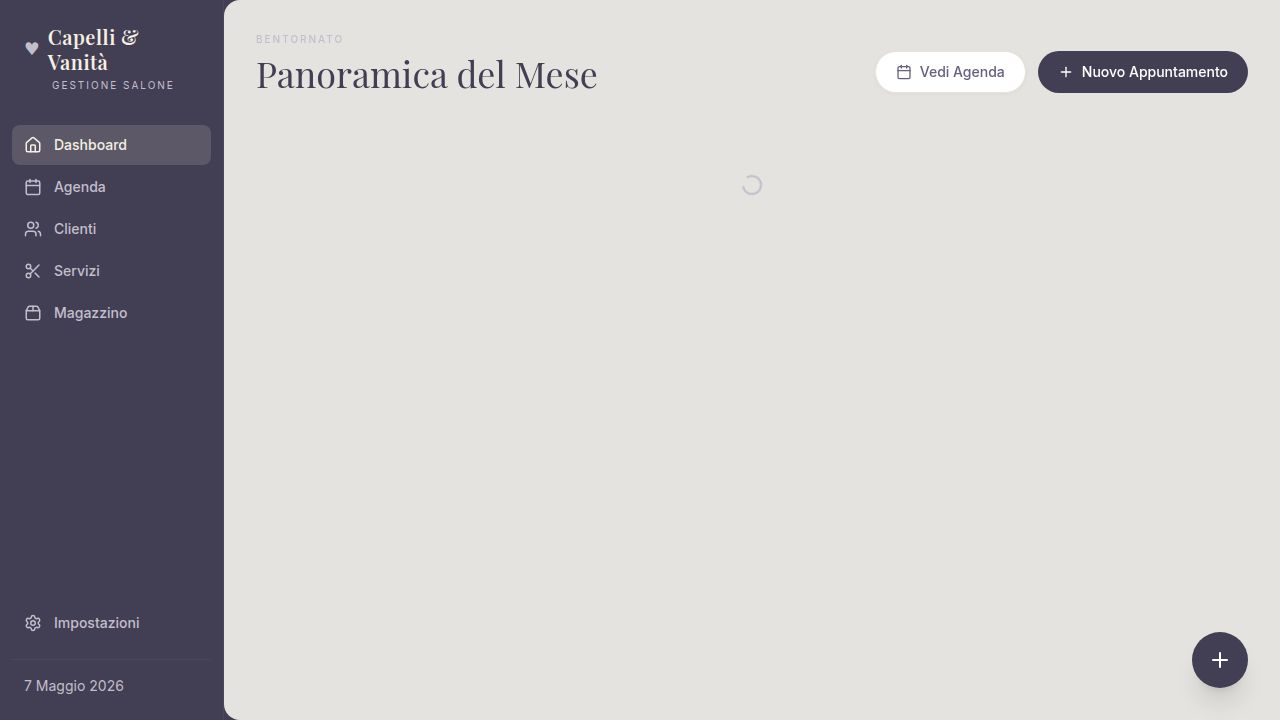
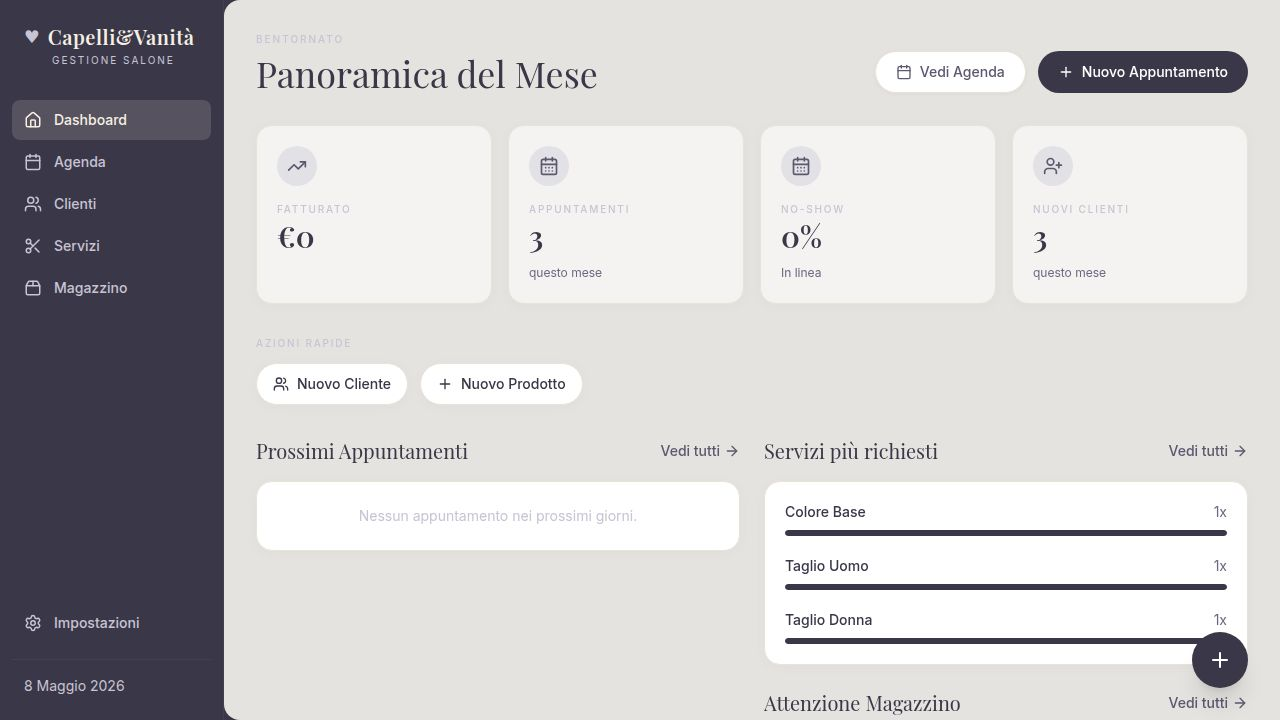
Task #42: Bug fix magazzino — calcolo automatico stockGrams e scarico confezioni
Three inventory bugs from task #38 (advanced inventory) are fixed:

1. EditProductModal — auto-calculate stockGrams:
   - Added `stockGramsManual` flag to distinguish between auto-computed and manually overridden values
   - When `quantity` or `unitSize` changes and the user hasn't manually overridden stockGrams, the field auto-updates to `quantity × unitSize`
   - When the user types in the stockGrams field directly, the flag is set and auto-calc stops
   - Helpful hint text shows "Auto-calcolato: N × M unità" or "Valore personalizzato" accordingly
   - trackByWeight toggle also resets manual flag and recalculates

2. NewProductModal — editable stockGrams field:
   - Converted the read-only "Stock totale calcolato" label into a full editable input field
   - Same auto-calc + manual override pattern as EditProductModal
   - stockGrams added to FormData interface and emptyForm constant
   - Payload now uses formData.stockGrams instead of the derived computedStockGrams

3. Backend — deduct quantity (pack count) alongside stockGrams:
   - In PUT /appointments/:id stock deduction loop, after computing newStock,
     also computes `quantity = max(0, floor(newStock / unitSize))` when unitSize is set
   - Both stockGrams and quantity are updated in a single dbUpdateProduct call

4. False low-stock alerts (bug 2):
   - These were a consequence of incorrect stockGrams from the broken edit modal
[…]

diff --git a/artifacts/hirhub/src/components/NewProductModal.tsx b/artifacts/hirhub/src/components/NewProductModal.tsx
@@ -22,11 +22,12 @@ interface FormData {
   trackByWeight: boolean;
   unitSize: number;
   unitType: UnitType;
+  stockGrams: number;
 }
 
 const emptyForm: FormData = {
   name: '', category: '', brand: '', quantity: 0, minThreshold: 5,
-  trackByWeight: false, unitSize: 100, unitType: 'ml',
+  trackByWeight: false, unitSize: 100, unitType: 'ml', stockGrams: 0,
 };
 
 export const NewProductModal = ({ isOpen, onClose }: { isOpen: boolean, onClose: () => void }) => {
@@ -38,6 +39,7 @@ export const NewProductModal = ({ isOpen, onClose }: { isOpen: boolean, onClose:
         toast.show('Prodotto aggiunto');
         onClose();
         setFormData(emptyForm);
+        setStockGramsManual(false);
       },
       onError: (err: unknown) => {
         const msg = (err as { response?: { data?: { message?: string } } })?.response?.data?.message;
@@ -47,10 +49,29 @@ export const NewProductModal = ({ isOpen, onClose }: { isOpen: boolean, onClose:
   });
 
   const [formData, setFormData] = useState<FormData>(emptyForm);
+  const [stockGramsManual, setStockGramsManual] = useState(false);
 
-  const computedStockGrams = formData.trackByWeight
-    ? formData.quantity * formData.unitSize
-    : null;
+  const handleQuantityChange = (val: number) => {
+    setFormData(p => {
+      const newStock = !stockGramsManual && p.trackByWeight ? val * p.unitSize : p.stockGrams;
+      return { ...p, quantity: val, stockGrams: newStock };
+    });
+  };
+
+  const handleUnitSizeChange = (val: number) => {
+    setFormData(p => {
+      const newStock = !stockGramsManual ? p.quantity * val : p.stockGrams;
+      return { ...p, unitSize: val, stockGrams: newStock };
+    });
+  };
+
+  const handleTrackByWeightChange = (checked: boolean) => {
+    setFormData(p => {
+      const newStock = checked ? p.quantity * p.unitSize : 0;
+      return { ...p, trackByWeight: checked, stockGrams: newStock };
+    });
+    setStockGramsManual(false);
+  };
 
   const handleSubmit = (e: React.FormEvent) => {
     e.preventDefault();
@@ -66,7 +87,7 @@ export const NewProductModal = ({ isOpen, onClose }: { isOpen: boolean, onClose:
     if (formData.trackByWeight) {
       payload.unitSize = formData.unitSize;
       payload.unitType = formData.unitType;
-      payload.stockGrams = computedStockGrams;
+      payload.stockGrams = formData.stockGrams;
     }
     createProduct({ data: payload });
   };
@@ -100,7 +121,7 @@ export const NewProductModal = ({ isOpen, onClose }: { isOpen: boolean, onClose:
           <div className="flex flex-col gap-1">
             <label className={LABEL}>Confezioni (pz)</label>
             <input required type="number" min="0" value={formData.quantity}
-              onChange={e => setFormData(p => ({ ...p, quantity: parseInt(e.target.value) || 0 }))}
+              onChange={e => handleQuantityChange(parseInt(e.target.value) || 0)}
               className={INPUT} />
           </div>
           <div className="flex flex-col gap-1">
@@ -116,7 +137,7 @@ export const NewProductModal = ({ isOpen, onClose }: { isOpen: boolean, onClose:
             type="checkbox"
             id="trackByWeight"
             checked={formData.trackByWeight}
-            onChange={e => setFormData(p => ({ ...p, trackByWeight: e.target.checked }))}
+            onChange={e => handleTrackByWeightChange(e.target.checked)}
             className="w-4 h-4 rounded border-stone-300 accent-stone-800"
           />
           <label htmlFor="trackByWeight" className="text-sm text-stone-700 cursor-pointer">
@@ -130,7 +151,7 @@ export const NewProductModal = ({ isOpen, onClose }: { isOpen: boolean, onClose:
               <div className="flex flex-col gap-1">
                 <label className={LABEL}>Dimensione confezione</label>
                 <input type="number" min="0" step="0.1" value={formData.unitSize}
-                  onChange={e => setFormData(p => ({ ...p, unitSize: parseFloat(e.target.value) || 0 }))}
+                  onChange={e => handleUnitSizeChange(parseFloat(e.target.value) || 0)}
                   className={INPUT} />
               </div>
               <div className="flex flex-col gap-1">
@@ -143,11 +164,21 @@ export const NewProductModal = ({ isOpen, onClose }: { isOpen: boolean, onClose:
                 </select>
               </div>
             </div>
-            {computedStockGrams !== null && (
-              <p className="text-xs text-stone-500">
-                Stock totale calcolato: <span className="font-semibold text-stone-700">{computedStockGrams} {formData.unitType}</span>
+            <div className="flex flex-col gap-1">
+              <label className={LABEL}>Stock attuale ({formData.unitType})</label>
+              <input type="number" min="0" step="0.1" value={formData.stockGrams}
+                onChange={e => {
+                  const val = parseFloat(e.target.value) || 0;
+                  setStockGramsManual(true);
+                  setFormData(p => ({ ...p, stockGrams: val }));
+                }}
+                className={INPUT} />
+              <p className="text-xs text-stone-400">
+                {stockGramsManual
+                  ? 'Valore personalizzato — modificare le confezioni per ricalcolare'
+                  : `Auto-calcolato: ${formData.quantity} × ${formData.unitSize} ${formData.unitType}`}
               </p>
-            )}
+            </div>
           </div>
         )}
 

diff --git a/artifacts/hirhub/src/components/EditProductModal.tsx b/artifacts/hirhub/src/components/EditProductModal.tsx
@@ -60,6 +60,7 @@ export const EditProductModal = ({ isOpen, onClose, productId }: { isOpen: boole
     name: '', category: '', brand: '', quantity: 0, minThreshold: 5,
     trackByWeight: false, unitSize: 100, unitType: 'ml', stockGrams: 0,
   });
+  const [stockGramsManual, setStockGramsManual] = useState(false);
 
   useEffect(() => {
     if (product) {
@@ -74,8 +75,32 @@ export const EditProductModal = ({ isOpen, onClose, productId }: { isOpen: boole
         unitType: (product.unitType as UnitType) ?? 'ml',
         stockGrams: product.stockGrams ?? 0,
       });
+      setStockGramsManual(false);
     }
   }, [product]);
+
+  const handleQuantityChange = (val: number) => {
+    setFormData(pr => {
+      const newQty = val;
+      const newStock = !stockGramsManual && pr.trackByWeight ? newQty * pr.unitSize : pr.stockGrams;
+      return { ...pr, quantity: newQty, stockGrams: newStock };
+    });
+  };
+
+  const handleUnitSizeChange = (val: number) => {
+    setFormData(pr => {
+      const newStock = !stockGramsManual ? pr.quantity * val : pr.stockGrams;
+      return { ...pr, unitSize: val, stockGrams: newStock };
+    });
+  };
+
+  const handleTrackByWeightChange = (checked: boolean) => {
+    setFormData(pr => {
+      const newStock = checked ? pr.quantity * pr.unitSize : 0;
+      return { ...pr, trackByWeight: checked, stockGrams: newStock };
+    });
+    setStockGramsManual(false);
+  };
 
   const handleSubmit = (e: React.FormEvent) => {
     e.preventDefault();
@@ -133,7 +158,7 @@ export const EditProductModal = ({ isOpen, onClose, productId }: { isOpen: boole
           <div className="flex flex-col gap-1">
             <label className={LABEL}>Confezioni (pz)</label>
             <input required type="number" min="0" value={formData.quantity}
-              onChange={e => setFormData(pr => ({ ...pr, quantity: parseInt(e.target.value) || 0 }))}
+              onChange={e => handleQuantityChange(parseInt(e.target.value) || 0)}
               className={INPUT} />
           </div>
           <div className="flex flex-col gap-1">
@@ -149,7 +174,7 @@ export const EditProductModal = ({ isOpen, onClose, productId }: { isOpen: boole
             type="checkbox"
             id="editTrackByWeight"
             checked={formData.trackByWeight}
-            onChange={e => setFormData(pr => ({ ...pr, trackByWeight: e.target.checked }))}
+            onChange={e => handleTrackByWeightChange(e.target.checked)}
             className="w-4 h-4 rounded border-stone-300 accent-stone-800"
           />
           <label htmlFor="editTrackByWeight" className="text-sm text-stone-700 cursor-pointer">
@@ -163,7 +188,7 @@ export const EditProductModal = ({ isOpen, onClose, productId }: { isOpen: boole
               <div className="flex flex-col gap-1">
                 <label className={LABEL}>Dimensione confezione</label>
                 <input type="number" min="0" step="0.1" value={formData.unitSize}
-                  onChange={e => setFormData(pr => ({ ...pr, unitSize: parseFloat(e.target.value) || 0 }))}
+                  onChange={e => handleUnitSizeChange(parseFloat(e.target.value) || 0)}
                   className={INPUT} />
               </div>
               <div className="flex flex-col gap-1">
@@ -179,9 +204,17 @@ export const EditProductModal = ({ isOpen, onClose, productId }: { isOpen: boole
             <div className="flex flex-col gap-1">
               <label className={LABEL}>Stock attuale ({formData.unitType})</label>
               <input type="number" min="0" step="0.1" value={formData.stockGrams}
-                onChange={e => setFormData(pr => ({ ...pr, stockGrams: parseFloat(e.target.value) || 0 }))}
+                onChange={e => {
+                  const val = parseFloat(e.target.value) || 0;
+                  setStockGramsManual(true);
+                  setFormData(pr => ({ ...pr, stockGrams: val }));
+                }}
                 className={INPUT} />
-              <p className="text-xs text-stone-400">Modifica direttamente per rettifiche manuali</p>
+              <p className="text-xs text-stone-400">
+                {stockGramsManual
+                  ? 'Valore personalizzato — modificare le confezioni per ricalcolare'
+                  : `Auto-calcolato: ${formData.quantity} × ${formData.unitSize} ${formData.unitType}`}
+              </p>
             </div>
           </div>
         )}

diff --git a/artifacts/api-server/src/routes/appointments.ts b/artifacts/api-server/src/routes/appointments.ts
@@ -104,7 +104,11 @@ router.put("/appointments/:id", async (req, res) => {
       if (!product) continue;
       if (product.stockGrams != null) {
         const newStock = Math.max(0, Number(product.stockGrams) - totalUsed);
-        await dbUpdateProduct(productId, { stockGrams: newStock });
+        const patch: Parameters<typeof dbUpdateProduct>[1] = { stockGrams: newStock };
+        if (product.unitSize != null && Number(product.unitSize) > 0) {
+          patch.quantity = Math.max(0, Math.floor(newStock / Number(product.unitSize)));
+        }
+        await dbUpdateProduct(productId, patch);
       }
     }
   }